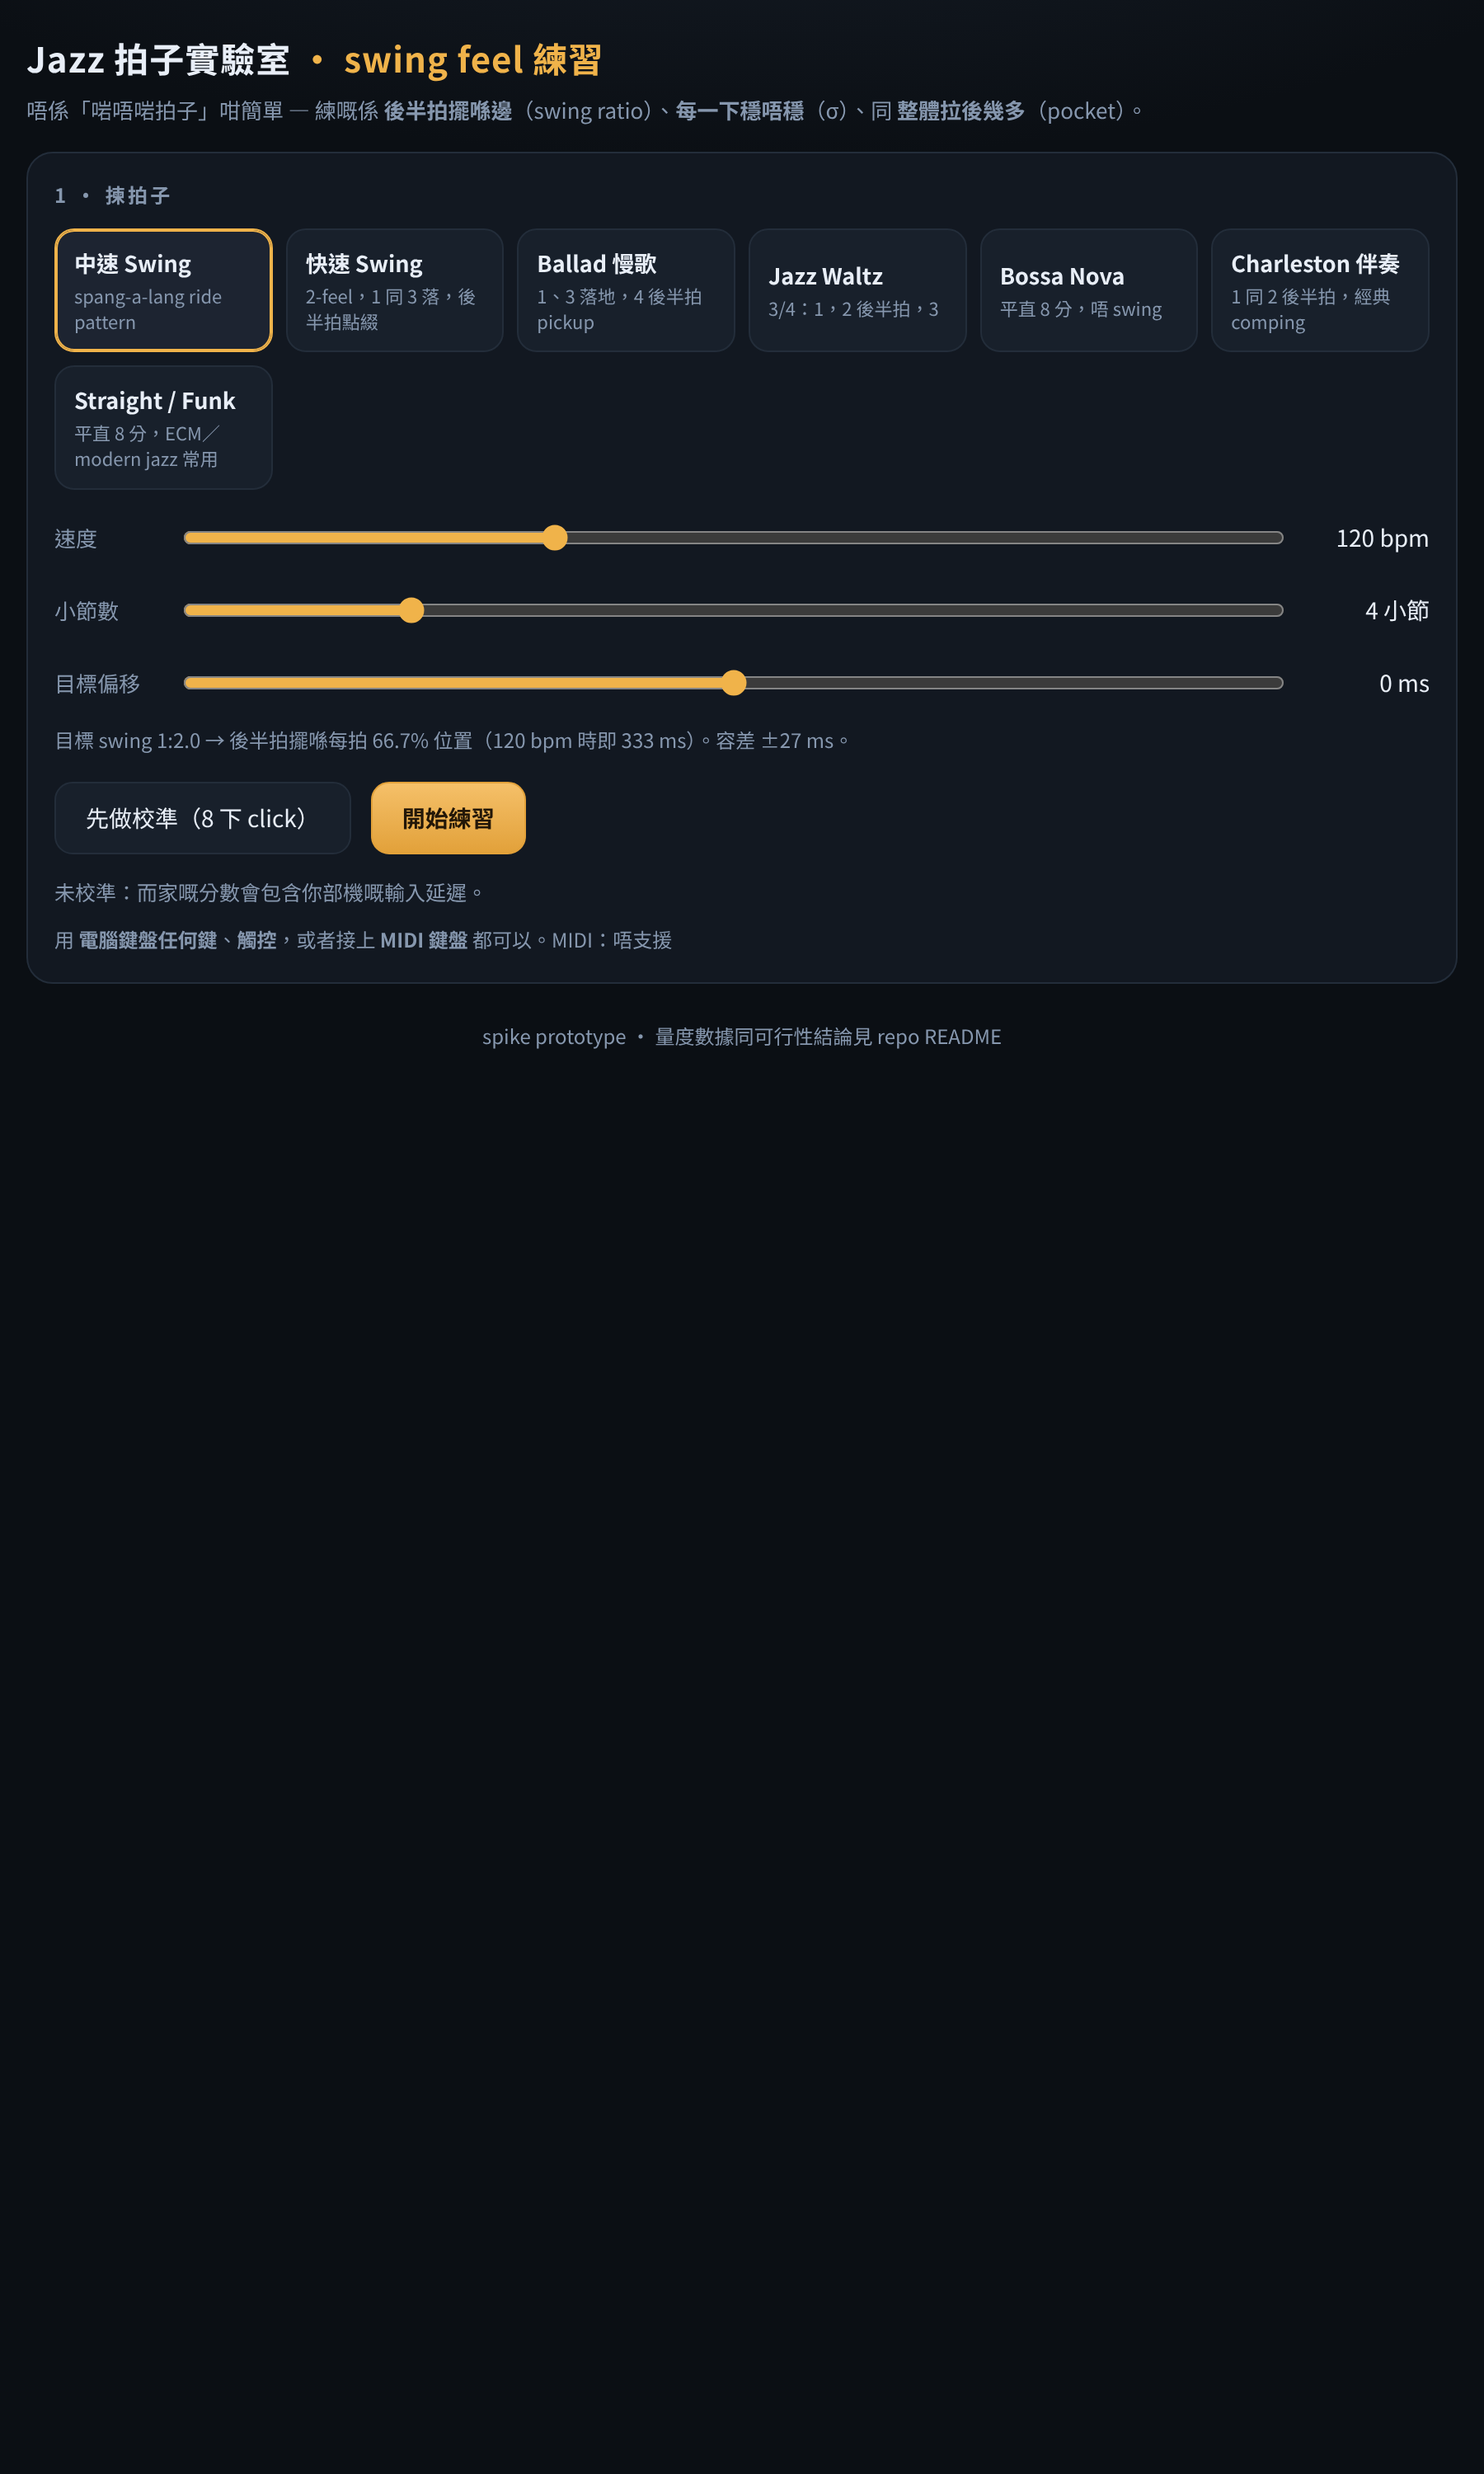
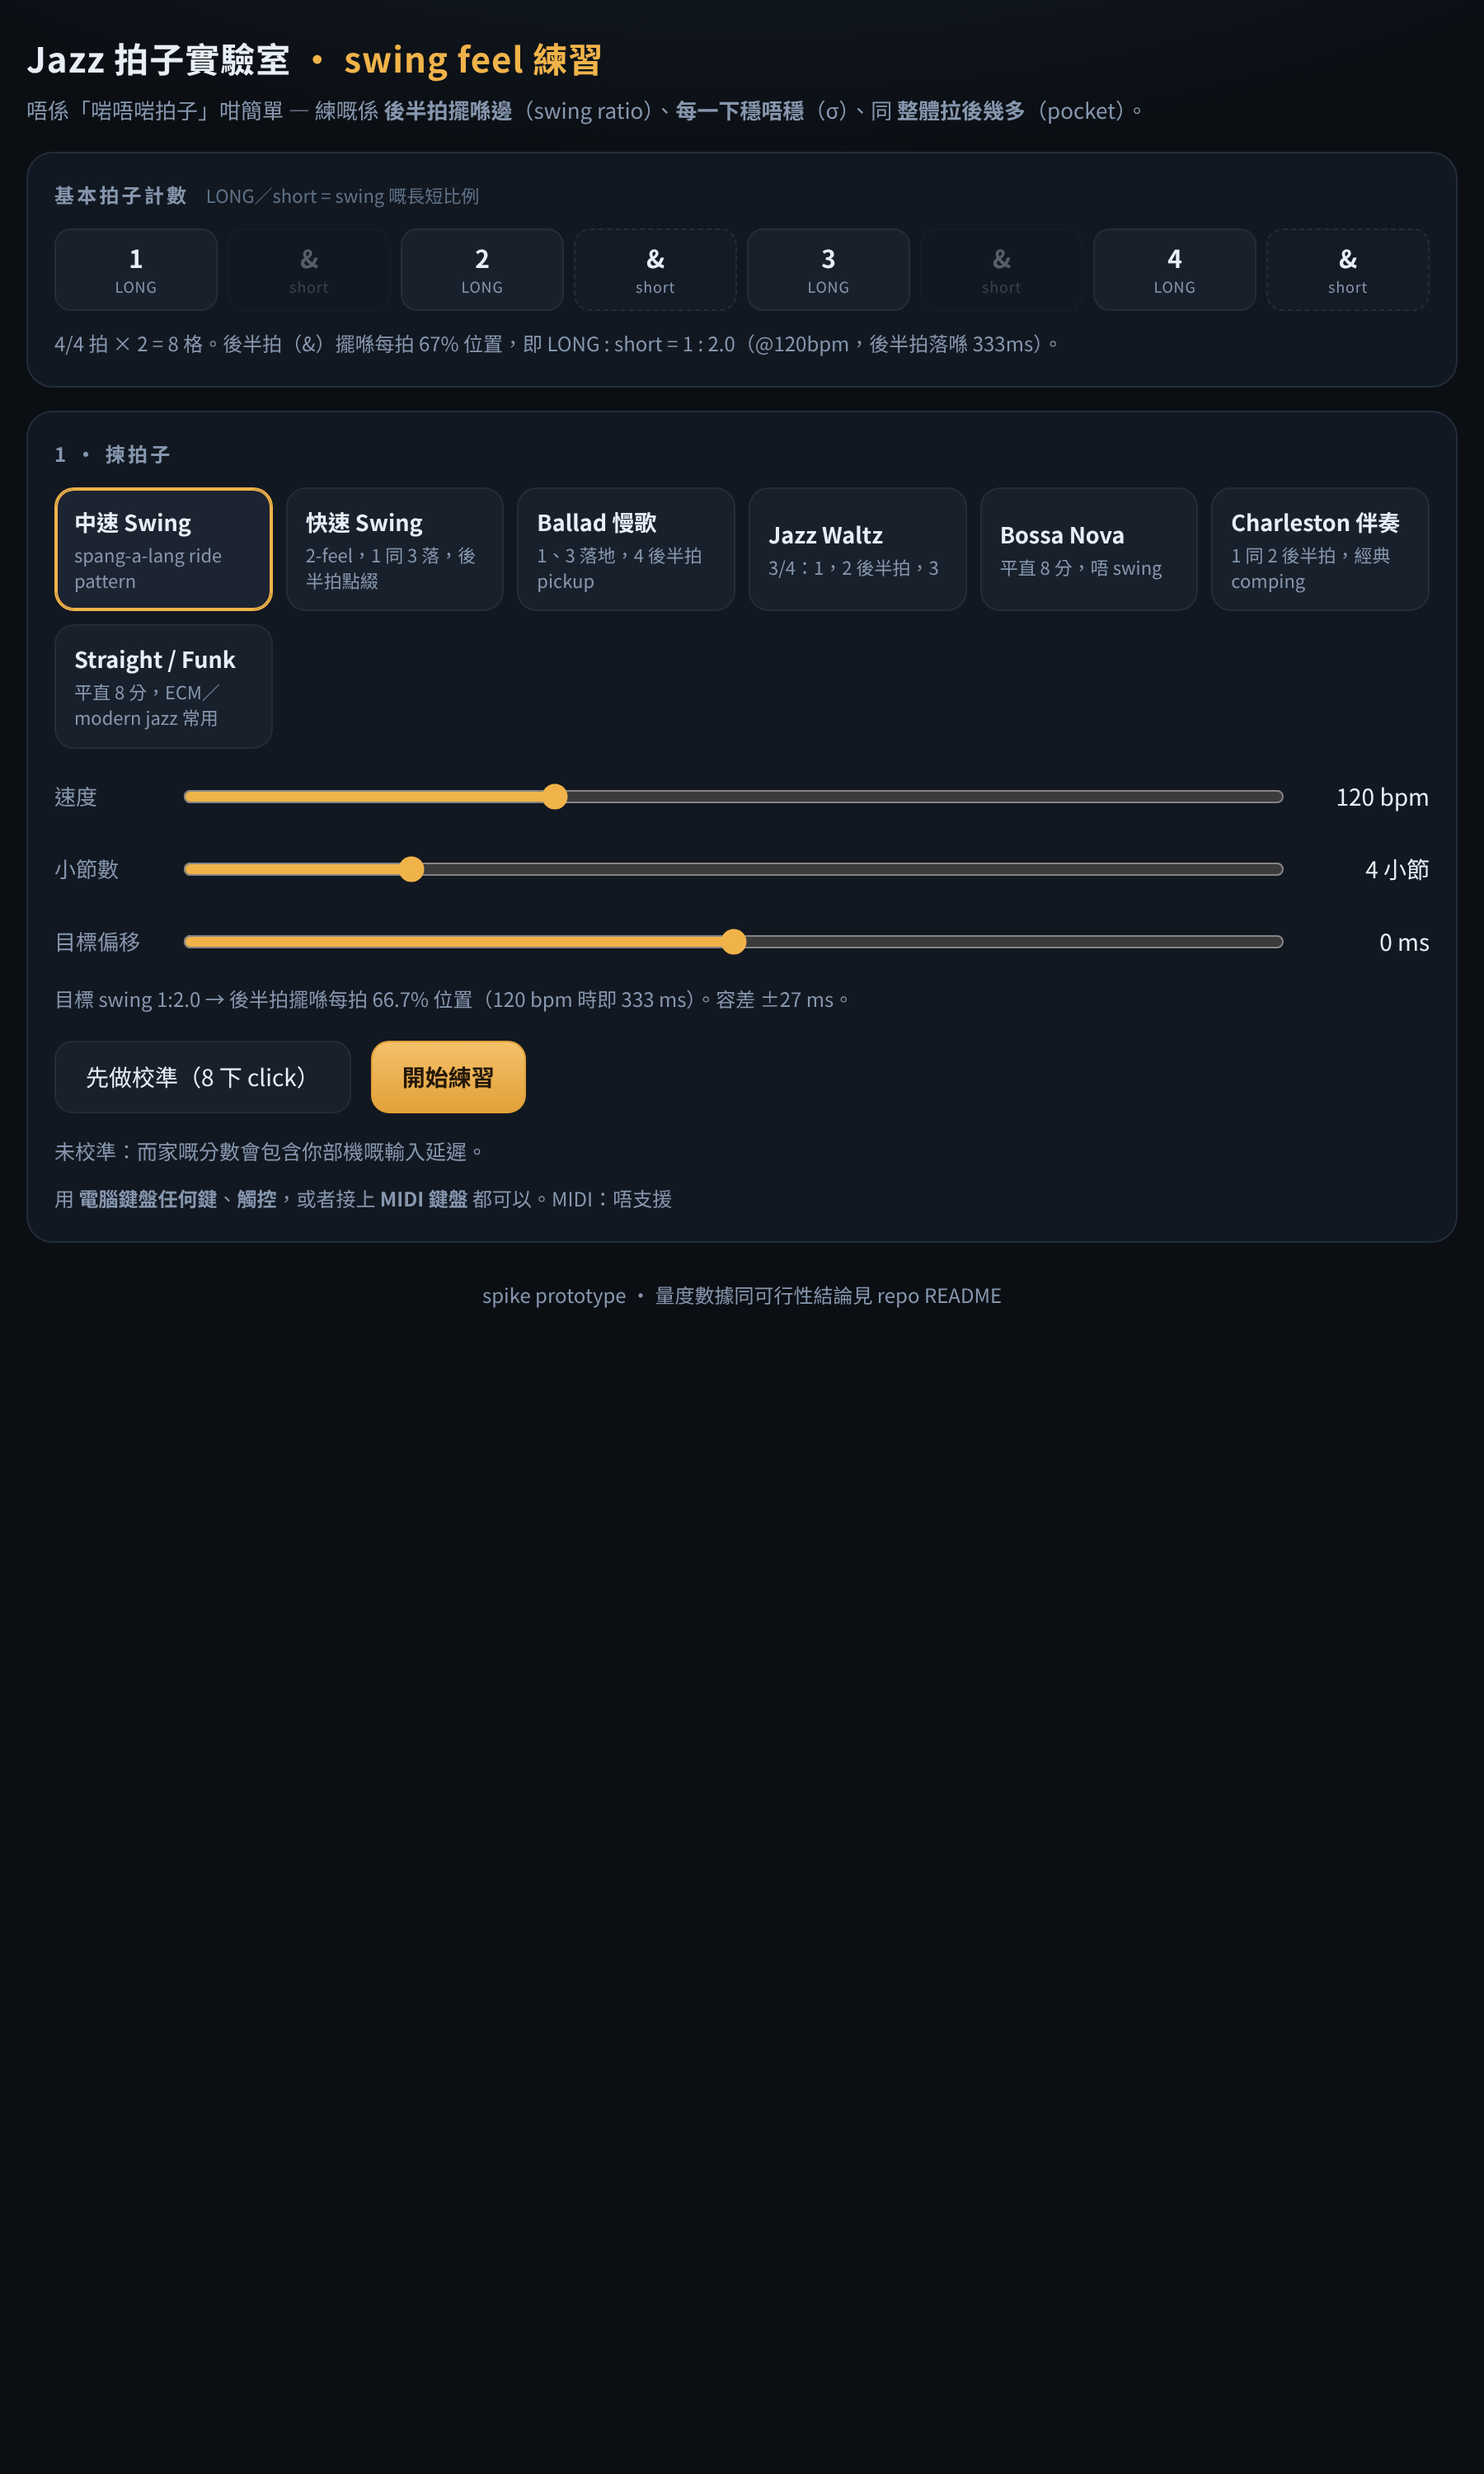
加基本拍子計數（1&2&3&4& + LONG/short）同揀 feel 亮燈

diff --git a/app.js b/app.js
@@ -83,6 +83,7 @@ function click(atSec, accent, vol = 1) {
 /** 即刻收聲：清 queue、停所有已排程嘅 oscillator、停 scheduler。 */
 function stopAudio() {
   S.queue.length = 0;
+  clearLights();
   if (S.sched) { clearInterval(S.sched); S.sched = null; }
   for (const o of activeOsc) {
     try { o.onended = null; o.stop(0); } catch {}
@@ -99,6 +100,65 @@ function pumpQueue() {
     const ev = S.queue.shift();
     click(ev.atSec, ev.accent, ev.vol ?? 1);
   }
+}
+
+// ---------------------------------------------------------------------------
+// 基本拍子計數（1 & 2 & 3 & 4 &）＋ 亮燈
+// ---------------------------------------------------------------------------
+function renderCounts(feel = feelById(S.feelId)) {
+  const el = $("counts");
+  if (!el) return;
+  const beats = feel.beatsPerBar;
+  const f = swingOffset(feel.swing);
+  const swingy = feel.swing > 1.05;
+  el.style.gridTemplateColumns = `repeat(${beats * 2}, minmax(0,1fr))`;
+  el.innerHTML = "";
+  for (let b = 0; b < beats; b++) {
+    for (const kind of ["on", "off"]) {
+      const d = document.createElement("div");
+      const played = feel.pattern.some(([p, k]) => p === b && k === kind);
+      d.className = "cnt" + (kind === "off" ? " off" : "") + (played ? "" : " muted");
+      const posPct = Math.round((kind === "off" ? f : 0) * 100);
+      const posMs = Math.round(((kind === "off" ? f : 0) * 60000) / S.bpm);
+      d.title = kind === "off"
+        ? `後半拍：拍內 ${posPct}%（@${S.bpm}bpm = ${posMs}ms）`
+        : `正拍：拍頭（${S.bpm}bpm）`;
+      d.innerHTML = `<b>${kind === "on" ? b + 1 : "&"}</b><span>${swingy ? (kind === "off" ? "short" : "LONG") : "even"}</span>`;
+      d.dataset.slot = String(b * 2 + (kind === "off" ? 1 : 0));
+      el.appendChild(d);
+    }
+  }
+  const total = beats * 2;
+  $("countHint").innerHTML = swingy
+    ? `${beats}/4 拍 × 2 = ${total} 格。後半拍（&）擺喺每拍 ${(f * 100).toFixed(0)}% 位置，即 LONG : short = 1 : ${feel.swing.toFixed(1)}（@${S.bpm}bpm，後半拍落喺 ${((f * 60000) / S.bpm).toFixed(0)}ms）。`
+    : `${beats}/4 拍 × 2 = ${total} 格。呢個 feel 係平直嘅 — LONG 同 short 一樣長，後半拍就喺正中（50%）。`;
+}
+
+/** 排定一串「幾時要亮邊一格」嘅燈 */
+function scheduleLights(events) {
+  S.beatLights = events.filter((e) => Number.isFinite(e.t)).sort((a, b) => a.t - b.t);
+  if (!S.lightRaf) S.lightRaf = requestAnimationFrame(lightLoop);
+}
+
+function lightLoop() {
+  const now = audioNowMs();
+  const cells = $("counts") ? $("counts").children : [];
+  while (S.beatLights.length && S.beatLights[0].t <= now + 8) {
+    const ev = S.beatLights.shift();
+    const cell = cells[ev.slot];
+    if (cell) {
+      cell.classList.add("lit");
+      clearTimeout(cell._litT);
+      cell._litT = setTimeout(() => cell.classList.remove("lit"), 130);
+    }
+  }
+  S.lightRaf = S.beatLights.length ? requestAnimationFrame(lightLoop) : null;
+}
+
+function clearLights() {
+  S.beatLights = [];
+  if (S.lightRaf) { cancelAnimationFrame(S.lightRaf); S.lightRaf = null; }
+  if ($("counts")) for (const c of $("counts").children) c.classList.remove("lit");
 }
 
 /** 揀 feel 之後試聽一個 bar（未開始練習前） */
@@ -121,6 +181,11 @@ function previewFeel(feel) {
   S.queue.sort((a, b) => a.atSec - b.atSec);
   S.sched = setInterval(pumpQueue, 25);
   pumpQueue();
+  // 亮燈同一個 bar
+  scheduleLights([
+    { t: t0 - grid.beatMs, slot: 0 },
+    ...grid.targets.map((tg) => ({ t: t0 + tg.t, slot: tg.beat * 2 + (tg.kind === "off" ? 1 : 0) })),
+  ]);
   // 一個 bar 之後自動收工
   clearTimeout(S.previewEnd);
   S.previewEnd = setTimeout(() => { if (!S.running) stopAudio(); }, grid.barMs + 450);
@@ -190,6 +255,12 @@ function startSession({ testMode = false } = {}) {
   S.queue.sort((a, b) => a.atSec - b.atSec);
   if (!S.sched) S.sched = setInterval(pumpQueue, 25);
   pumpQueue();
+
+  // 亮燈：count-in 每一拍 + 所有目標音
+  scheduleLights([
+    ...Array.from({ length: countBeats }, (_, i) => ({ t: countStart + i * grid.beatMs, slot: i * 2 })),
+    ...targets.map((tg) => ({ t: tg.t, slot: tg.beat * 2 + (tg.kind === "off" ? 1 : 0) })),
+  ]);
 
   S.dots = new Map();
   buildLane();
@@ -399,7 +470,8 @@ function renderFeels() {
       $("bpmVal").textContent = `${f.bpm} bpm`;
       renderFeels();
       renderHint();
-      previewFeel(f); // 揀完即聽一個 bar
+      renderCounts(f);
+      previewFeel(f); // 揀完即聽一個 bar + 亮燈
     };
     el.appendChild(b);
   }
@@ -415,7 +487,7 @@ function renderHint() {
 }
 
 function bindUI() {
-  $("bpm").oninput = (e) => { S.bpm = +e.target.value; $("bpmVal").textContent = `${S.bpm} bpm`; renderHint(); };
+  $("bpm").oninput = (e) => { S.bpm = +e.target.value; $("bpmVal").textContent = `${S.bpm} bpm`; renderHint(); renderCounts(); };
   $("bars").oninput = (e) => { S.bars = +e.target.value; $("barsVal").textContent = `${S.bars} 小節`; renderHint(); };
   $("offset").oninput = (e) => {
     S.targetOffset = +e.target.value;
@@ -478,10 +550,21 @@ window.__spike = {
   }),
   preview: (feelId) => previewFeel(feelById(feelId || S.feelId)),
   stopAudio: () => stopAudio(),
+  lights: () => ({
+    pending: (S.beatLights || []).length,
+    lit: [...document.querySelectorAll("#counts .cnt")].filter((c) => c.classList.contains("lit")).map((c) => c.dataset.slot),
+  }),
+  counts: () => [...document.querySelectorAll("#counts .cnt")].map((c) => ({
+    slot: c.dataset.slot,
+    label: c.querySelector("b").textContent,
+    feel: c.querySelector("span").textContent,
+    muted: c.classList.contains("muted"),
+  })),
 };
 
 // boot
 renderFeels();
 renderHint();
+renderCounts();
 bindUI();
 try { S.hist = JSON.parse(localStorage.getItem("jazz-rhythm-hist") || "[]"); } catch {}

diff --git a/index.html b/index.html
@@ -106,6 +106,31 @@
   .hist div.hi{background:var(--accent)}
   .badge{font-size:11px;padding:3px 8px;border-radius:20px;border:1px solid var(--line);color:var(--muted);display:inline-block;margin-left:8px;vertical-align:1px}
   .badge.live{border-color:var(--accent2);color:var(--accent2)}
+
+  /* 基本拍子計數 */
+  .hint2{font-weight:400;letter-spacing:0;color:#5f7288;font-size:11px;margin-left:6px}
+  .counts{display:grid;gap:6px}
+  .cnt{
+    background:var(--panel2);border:1px solid var(--line);border-radius:10px;
+    padding:8px 2px 7px;text-align:center;transition:background .09s,border-color .09s,box-shadow .09s,transform .09s;
+  }
+  .cnt b{display:block;font-size:15px;font-weight:600;font-variant-numeric:tabular-nums;line-height:1.15}
+  .cnt span{display:block;font-size:9px;letter-spacing:.4px;color:var(--muted);margin-top:3px}
+  .cnt.off{border-style:dashed;background:#141b25}
+  .cnt.muted{opacity:.32}
+  .cnt.lit{background:var(--accent);border-color:var(--accent);color:#231708;transform:translateY(-1px);
+    box-shadow:0 0 16px rgba(240,179,74,.55)}
+  .cnt.lit span{color:#4a3208}
+  .cnt.off.lit{background:var(--accent2);border-color:var(--accent2);color:#07231b;
+    box-shadow:0 0 16px rgba(94,224,176,.45)}
+  .cnt.off.lit span{color:#0d3a2c}
+  @media (max-width:430px){
+    .counts{gap:4px}
+    .cnt{padding:7px 1px 6px;border-radius:8px}
+    .cnt b{font-size:13px}
+    .cnt span{font-size:7.5px;letter-spacing:0}
+    .cnt.muted{opacity:.45}
+  }
 </style>
 </head>
 <body>
@@ -114,6 +139,12 @@
     <h1>Jazz 拍子實驗室 <span>· swing feel 練習</span></h1>
     <p>唔係「啱唔啱拍子」咁簡單 — 練嘅係 <b>後半拍擺喺邊</b>（swing ratio）、<b>每一下穩唔穩</b>（σ）、同 <b>整體拉後幾多</b>（pocket）。</p>
   </header>
+
+  <section class="card" id="countCard">
+    <h2>基本拍子計數 <span class="hint2">LONG／short = swing 嘅長短比例</span></h2>
+    <div class="counts" id="counts"></div>
+    <div class="hint" id="countHint"></div>
+  </section>
 
   <section id="setup" class="card">
     <h2>1 · 揀拍子</h2>
